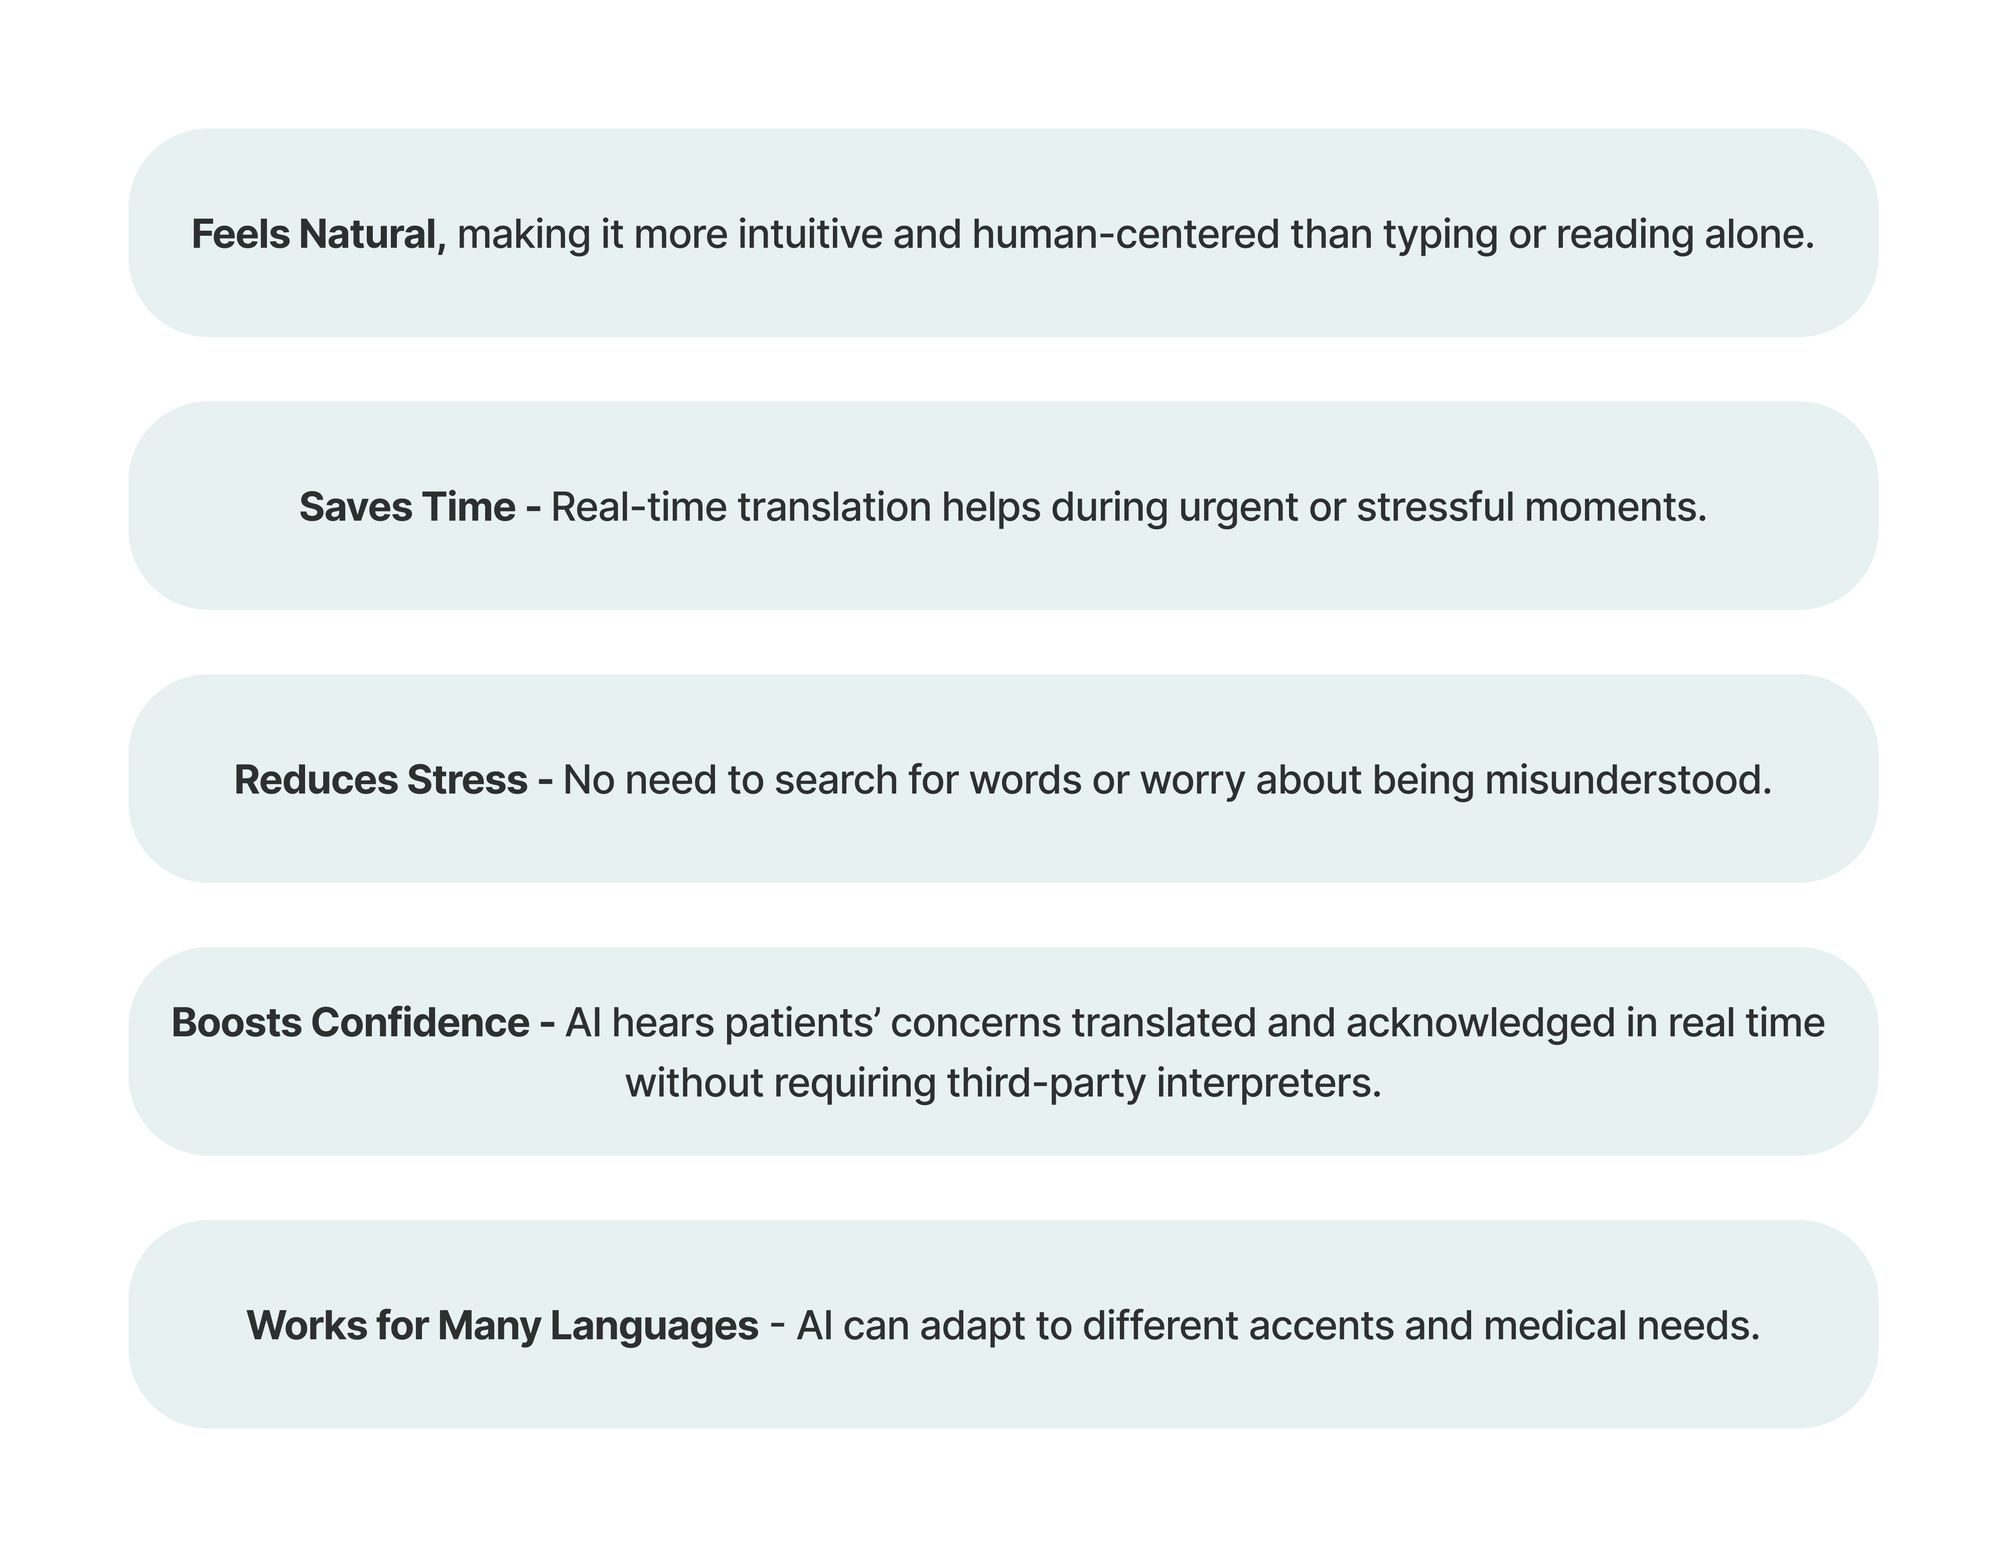
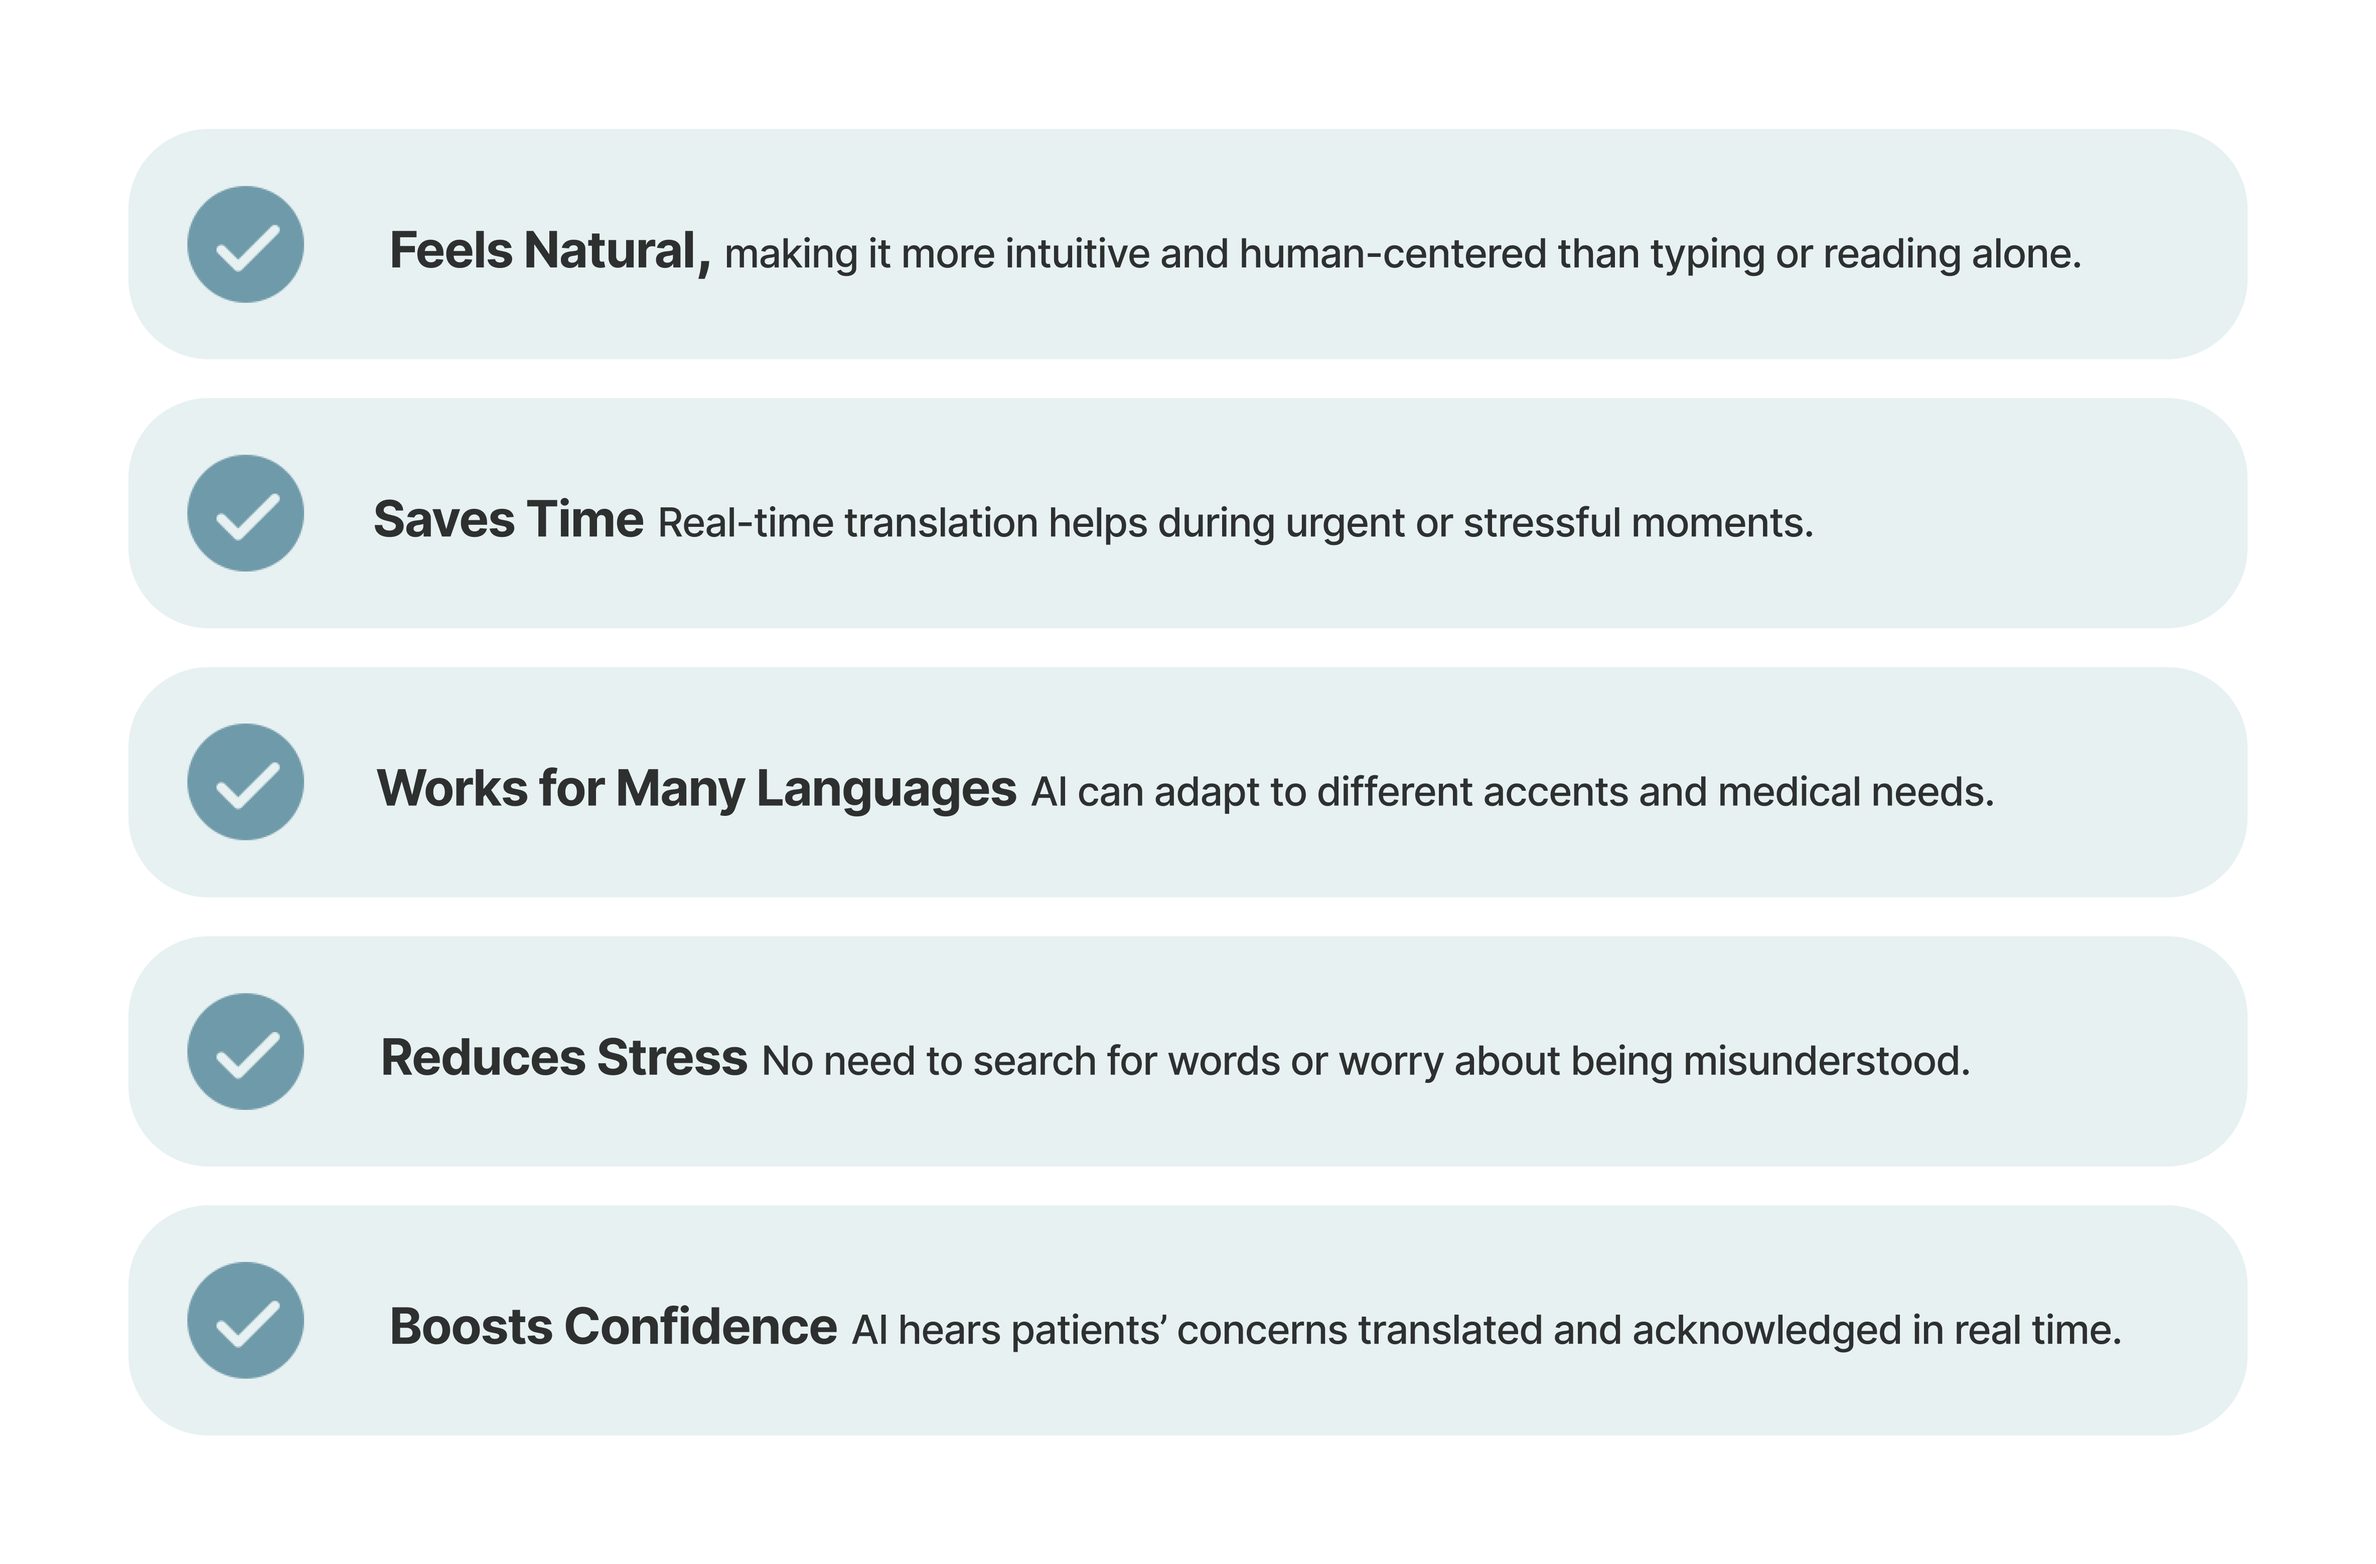
Update MedSpeak.jsx

diff --git a/src/pages/MedSpeak.jsx b/src/pages/MedSpeak.jsx
@@ -447,7 +447,7 @@ function MedSpeak() {
     
     <div className="why">
       <h4 className="medspeak-section-title">Improving User Experience Through AI Feature</h4>
-      <h2>Then, Why AI Voice Reader/ AI Language Translator Feature?</h2>
+      <h2>Why AI Voice Reader/ AI Language Translator Feature?</h2>
       <div className="why-image">
         <img src={whyAI} alt="Why AI Feature" />
       </div>

diff --git a/src/pages/MedSpeak.css b/src/pages/MedSpeak.css
@@ -694,7 +694,7 @@ thead tr {
 }
 
 .why {
-  margin-top: 6rem;
+  margin-top: 10rem;
 }
 
 .why h2 {
@@ -703,8 +703,9 @@ thead tr {
 
 .why img {
   margin-top: -2rem;
-  width: 1200px;
-  margin-left: -2rem;
+  width: 95%;
+  margin-left:-3rem;
+  
 }
 
 
